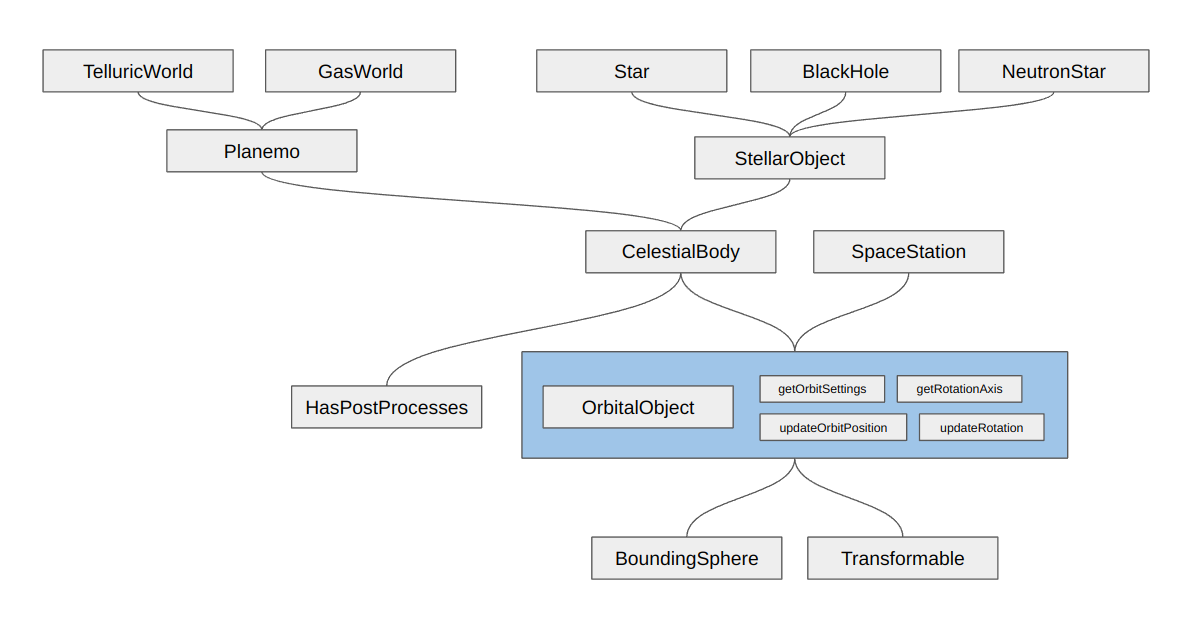
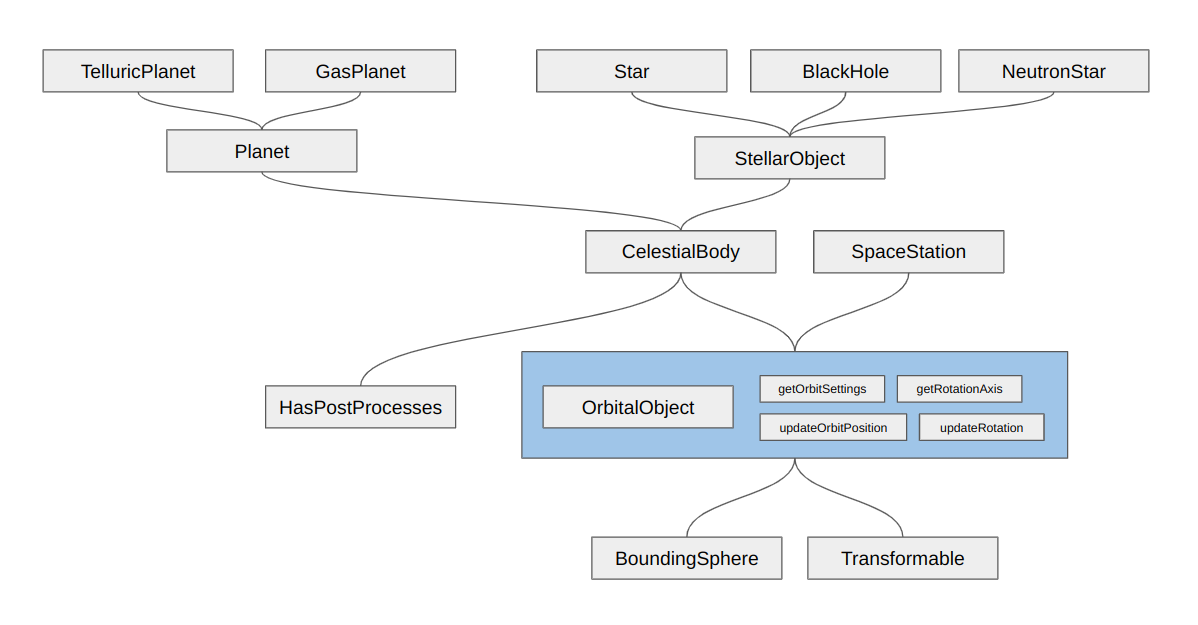
update documentation

diff --git a/src/ts/architecture/Readme.md b/src/ts/architecture/Readme.md
@@ -1,3 +1,28 @@
 # Architecture of interface spanning from simple Transforms to complex Celestial bodies and Space stations:
 
 ![img.png](img.png)
+
+This folder contains all the abstraction necessary to the architecture of the image. 
+
+This means all the node except the leaves (upper nodes) which are the actual concrete implementation of celestial bodies and space stations.
+
+It all starts with simple `Transformable` and `BoundingSphere`: 
+those are simple objects that possess a BaylonJS `TransformNode` for their position, rotation, scaling and a bounding volume to make simple calculations for distances.
+
+An `OrbitalObject` builds on top of this by adding the notion of orbit. They possess `OrbitProperties` that describes their motion around their `parent` which can be null in the case of some objects (think like stars).
+
+`OrbitalObject` also possess `PhysicalProperties` that complement the `OrbitProperties` with information such as mass, axial tilting and rotation period.
+
+To sum up, an `OrbitalObject` is an object that can rotate around another `OrbitalObject` and rotate on itself.
+
+`CelestialBody` builds up on top of `OrbitalObject` by adding the notion of `BODY_TYPE` and `radius` that is expected from spherical objects.
+
+`CelestialBody` are spherical orbital objects that encompasses both planets and stellar objects. 
+They can have specific post-processes applied to them (like atmosphere, clouds, rings...), which is why they also implement `HasPostProcesses`.
+
+`StellarObject` builds on top of `CelestialBody` by adding a `PointLight` that is used to light up the scene. They also have a `STELLAR_TYPE` that describes their type (star, black hole, neutron star).
+
+`Planet` builds on top of `CelestialBody` by adding new `PlanetPhysicalProperties` that describe their temperature and pressure. They also keep track of their number of moons.
+
+The other nodes are the concrete implementations of all these abstractions.
+They can be found in their respective folders (`planets` for `TelluricPlanet` and `GasPlanet`, `stellarObjects` for `Star`, `BlackHole` and `NeutronStar`, and spaceStations for `SpaceStation`).
